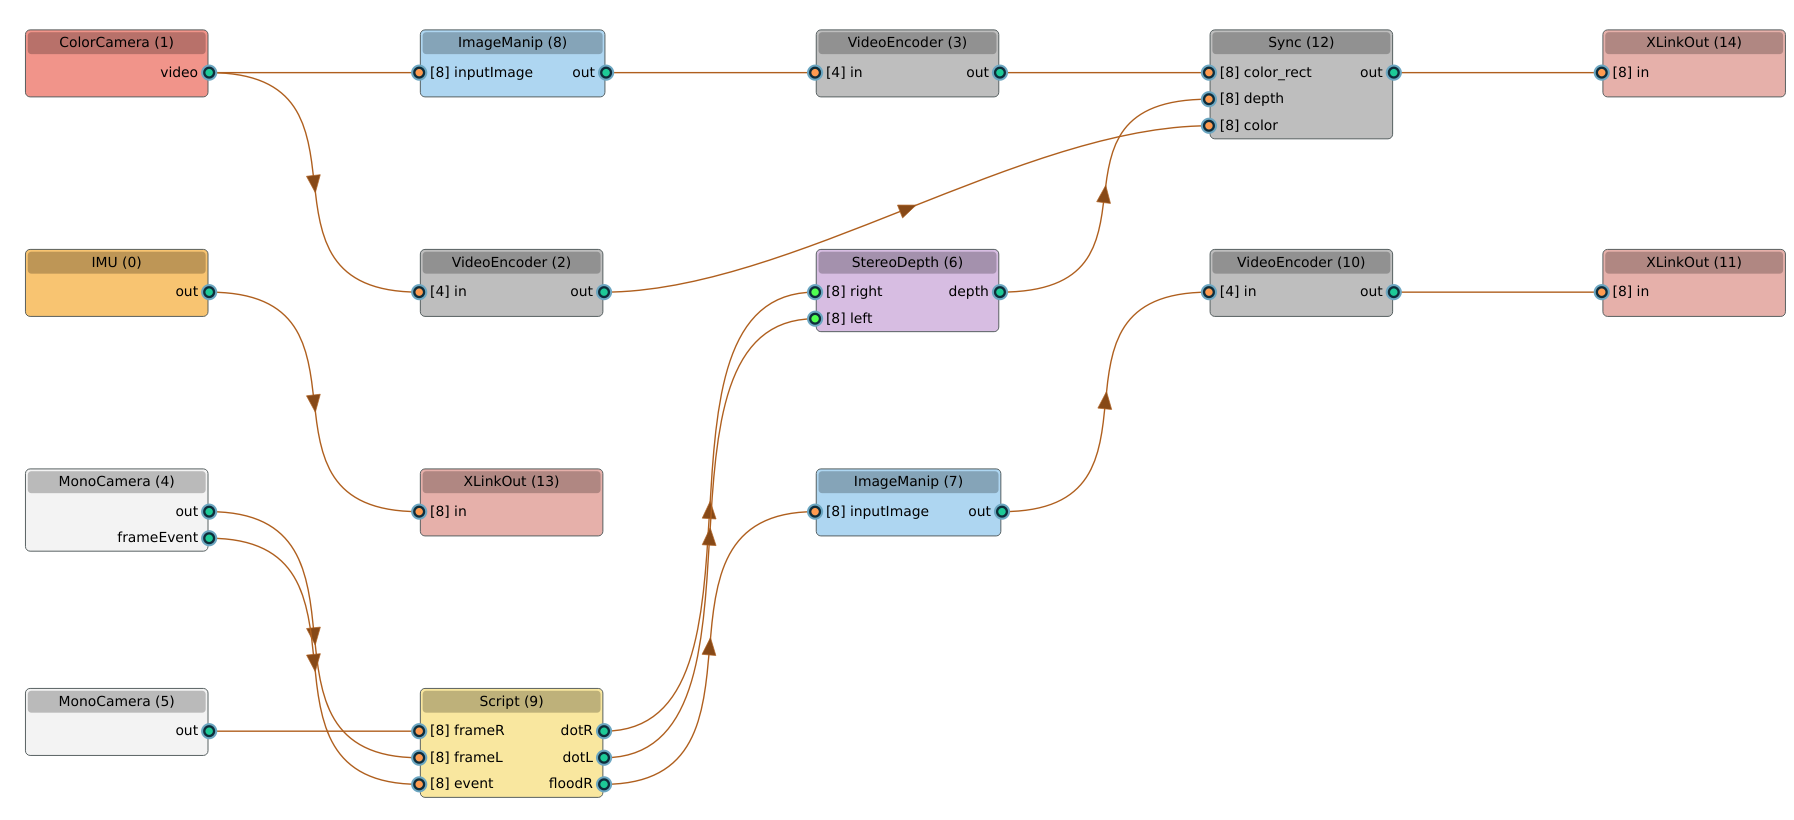
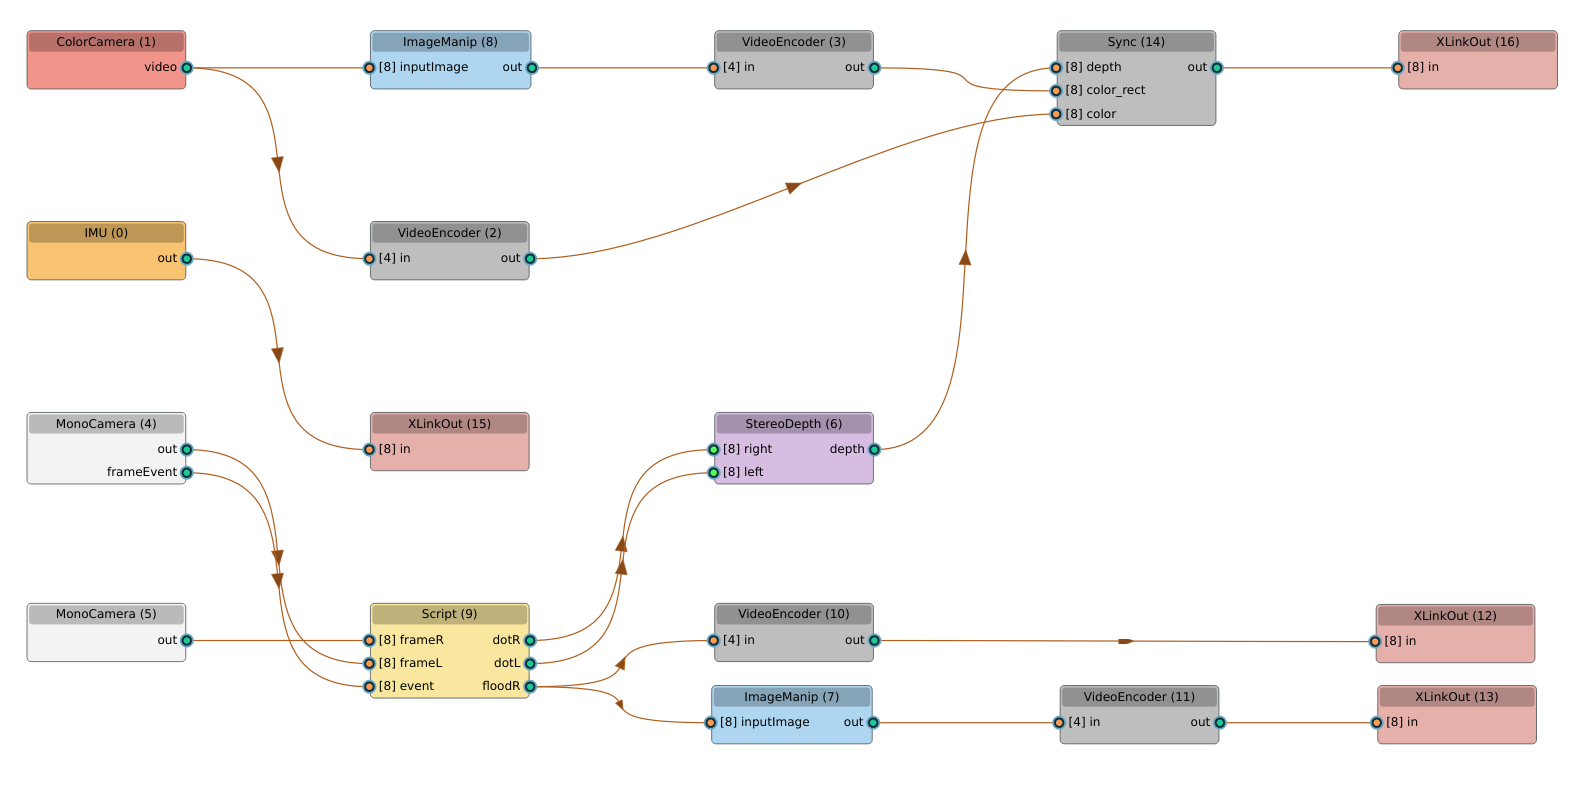
add right/image_rect topic

diff --git a/src/oak_node.cpp b/src/oak_node.cpp
@@ -26,7 +26,6 @@ class Node : public rclcpp::Node
 public:
     Node() : rclcpp::Node("oak")
     {
-        declare_parameter<bool>("rectify_mono");
         declare_parameter<float>("fps");
         declare_parameter<int>("pool_size");
         declare_parameter<int>("encoder_quality");
@@ -35,7 +34,6 @@ public:
 
         pipeline::PipelineOptions options;
 
-        get_parameter("rectify_mono", options.rectify_mono);
         get_parameter("fps", options.fps);
         get_parameter("pool_size", options.pool_size);
         get_parameter("encoder_quality", options.encoder_quality);
@@ -50,6 +48,9 @@ public:
 
         right_mono_image_pub_ = create_publisher<sensor_msgs::msg::CompressedImage>(
             "~/right/image_raw/compressed", rclcpp::SystemDefaultsQoS());
+
+        right_mono_rect_image_pub_ = create_publisher<sensor_msgs::msg::CompressedImage>(
+            "~/right/image_rect/compressed", rclcpp::SystemDefaultsQoS());
 
         stereo_image_pub_ = create_publisher<sensor_msgs::msg::Image>(
             "~/stereo/image_raw", rclcpp::SystemDefaultsQoS());
@@ -104,6 +105,7 @@ public:
 
         RCLCPP_INFO(get_logger(), "creating output queues");
         mono_queue_ = device_->getOutputQueue("mono", 3, false);
+        mono_rect_queue_ = device_->getOutputQueue("mono_rect", 3, false);
         mux_queue_ = device_->getOutputQueue("mux", 3, false);
         imu_queue_ = device_->getOutputQueue("imu", 3, false);
 
@@ -168,6 +170,21 @@ public:
             }
         });
 
+        // right mono rect (compressed)
+        mono_rect_queue_->addCallback([&](std::shared_ptr<dai::ADatatype> callback) { //
+            if (const auto buf = std::dynamic_pointer_cast<dai::EncodedFrame>(callback))
+            {
+                auto msg = img_converter_mono_->toRosFFMPEGPacket(buf);
+
+                sensor_msgs::msg::CompressedImage img;
+                img.data = msg.data;
+                img.format = msg.encoding;
+                img.header.frame_id = msg.header.frame_id;
+                img.header.stamp = msg.header.stamp;
+                right_mono_rect_image_pub_->publish(img);
+            }
+        });
+
         // imu
         imu_queue_->addCallback([&](std::shared_ptr<dai::ADatatype> callback) { //
             if (const auto buf = std::dynamic_pointer_cast<dai::IMUData>(callback))
@@ -192,12 +209,14 @@ public:
     std::shared_ptr<dai::Device> device_;
 
     std::shared_ptr<dai::DataOutputQueue> mono_queue_;
+    std::shared_ptr<dai::DataOutputQueue> mono_rect_queue_;
     std::shared_ptr<dai::DataOutputQueue> imu_queue_;
     std::shared_ptr<dai::DataOutputQueue> mux_queue_;
 
     std::shared_ptr<rclcpp::Publisher<sensor_msgs::msg::CompressedImage>> color_image_pub_;
     std::shared_ptr<rclcpp::Publisher<sensor_msgs::msg::CompressedImage>> color_image_rect_pub_;
     std::shared_ptr<rclcpp::Publisher<sensor_msgs::msg::CompressedImage>> right_mono_image_pub_;
+    std::shared_ptr<rclcpp::Publisher<sensor_msgs::msg::CompressedImage>> right_mono_rect_image_pub_;
     std::shared_ptr<rclcpp::Publisher<sensor_msgs::msg::Image>> stereo_image_pub_;
     std::shared_ptr<rclcpp::Publisher<sensor_msgs::msg::Imu>> imu_pub_;
     std::shared_ptr<rclcpp::Publisher<sensor_msgs::msg::CameraInfo>> camera_info_pub_;

diff --git a/src/pipeline.cpp b/src/pipeline.cpp
@@ -147,8 +147,6 @@ namespace pipeline
 
         // manip mono
         auto manip = pipeline.create<dai::node::ImageManip>();
-
-        if (options.rectify_mono)
         {
             auto [mesh, w, h] = get_mesh(device, dai::CameraBoardSocket::CAM_C, mono_right->getResolutionWidth(), mono_right->getResolutionHeight());
             manip->setWarpMesh(mesh, w, h);
@@ -157,10 +155,12 @@ namespace pipeline
 
         // manip color
         auto manip_color = pipeline.create<dai::node::ImageManip>();
-        auto [mesh, w, h] = get_mesh(device, dai::CameraBoardSocket::CAM_A, color->getIspWidth(), color->getIspHeight());
-        manip_color->setWarpMesh(mesh, w, h);
+        {
+            auto [mesh, w, h] = get_mesh(device, dai::CameraBoardSocket::CAM_A, color->getIspWidth(), color->getIspHeight());
+            manip_color->setWarpMesh(mesh, w, h);
+        }
         manip_color->setNumFramesPool(options.pool_size);
-        manip_color->setMaxOutputFrameSize(color->getIspWidth() * color->getIspHeight() * 3 / 2);
+        manip_color->setMaxOutputFrameSize(color->getIspWidth() * color->getIspHeight() * 3 / 2); // nv12, 12bits per pixel
         color->video.link(manip_color->inputImage);
         manip_color->out.link(color_enc_rect->input);
 
@@ -230,18 +230,28 @@ while True:
 
         // right mono encoder
         auto mono_enc = pipeline.create<dai::node::VideoEncoder>();
-        mono_enc->setDefaultProfilePreset(mono_right->getFps(), dai::VideoEncoderProperties::Profile::MJPEG);
+        mono_enc->setDefaultProfilePreset(mono_right->getFps() / 2, dai::VideoEncoderProperties::Profile::MJPEG);
         mono_enc->setQuality(options.encoder_quality);
 
-        auto mono_out = pipeline.create<dai::node::XLinkOut>();
-        mono_out->setStreamName("mono");
-
         // script outputs
+        script->outputs["floodR"].link(mono_enc->input);
         script->outputs["floodR"].link(manip->inputImage);
         script->outputs["dotL"].link(stereo->left);
         script->outputs["dotR"].link(stereo->right);
 
-        manip->out.link(mono_enc->input);
+        // right mono rect encoder
+        auto mono_rect_enc = pipeline.create<dai::node::VideoEncoder>();
+        mono_rect_enc->setDefaultProfilePreset(mono_right->getFps() / 2, dai::VideoEncoderProperties::Profile::MJPEG);
+        mono_rect_enc->setQuality(options.encoder_quality);
+
+        auto mono_out = pipeline.create<dai::node::XLinkOut>();
+        mono_out->setStreamName("mono");
+
+        auto mono_rect_out = pipeline.create<dai::node::XLinkOut>();
+        mono_rect_out->setStreamName("mono_rect");
+
+        manip->out.link(mono_rect_enc->input);
+        mono_rect_enc->out.link(mono_rect_out->input);
 
         // sync
         auto sync = pipeline.create<dai::node::Sync>();

diff --git a/include/oak/pipeline.h b/include/oak/pipeline.h
@@ -12,7 +12,6 @@ namespace pipeline
 
     struct PipelineOptions
     {
-        bool rectify_mono = false;
         float fps = 24.0;
         int pool_size = 24;
         int encoder_quality = 80;
